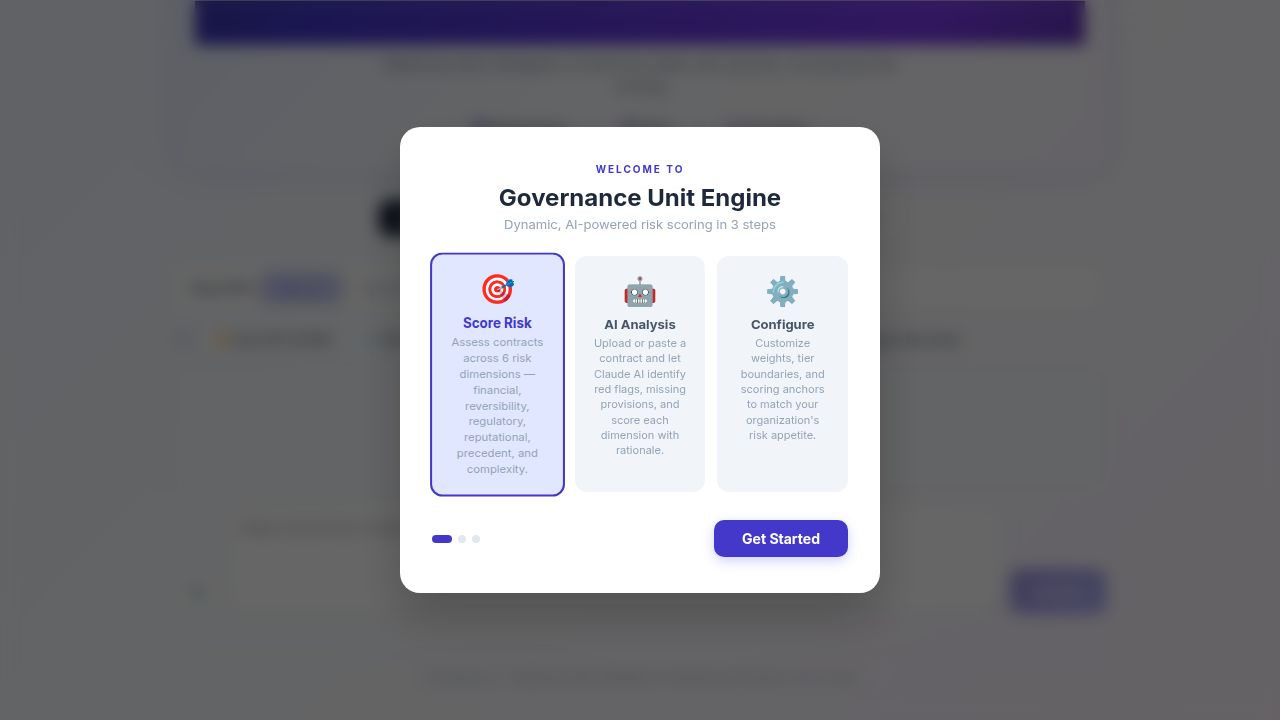
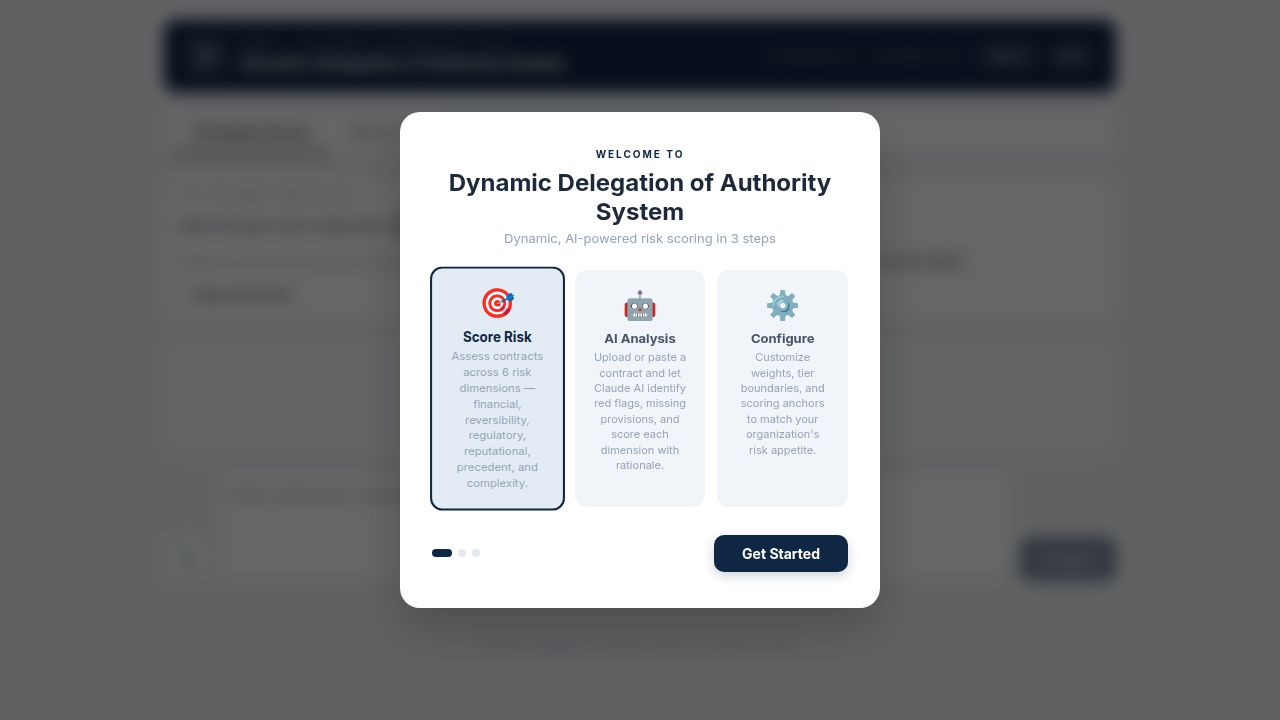
Update PDF export to generate a professional governance document
Refactor `generateReportHTML` and `handleExport` functions to create a polished, print-ready corporate governance document, including headers, summaries, and a clean table layout.

Replit-Commit-Author: Agent
Replit-Commit-Session-Id: 8699d386-e4ce-42f3-b0e2-5c6d118ec8df
Replit-Commit-Checkpoint-Type: full_checkpoint
Replit-Commit-Event-Id: 782a1e3f-37bd-4681-9727-4ac71fe24551
Replit-Commit-Screenshot-Url: https://storage.googleapis.com/screenshot-production-us-central1/102dfe43-65eb-4a89-ae3b-a070b6bf81ec/8699d386-e4ce-42f3-b0e2-5c6d118ec8df/vz2PiLT
Replit-Helium-Checkpoint-Created: true

diff --git a/artifacts/gu-engine/src/components/ContractAnalyzer.jsx b/artifacts/gu-engine/src/components/ContractAnalyzer.jsx
@@ -421,162 +421,254 @@ function buildRadarSVG(scores, size = 260) {
   return `<svg width="${size}" height="${size}" viewBox="0 0 ${size} ${size}" xmlns="http://www.w3.org/2000/svg">${grid}${axes}<path d="${poly}" fill="#0f2644" fill-opacity="0.15" stroke="#0f2644" stroke-width="2.5" stroke-linejoin="round"/>${dots}${lbls}</svg>`;
 }
 
-function generateReportHTML({ result, liveGU, config }) {
+function generateReportHTML({ result, liveGU, config, profile = 'default' }) {
   const a = result.analysis || {};
   const scores = a.scores || {};
   const ca = a.contract_analysis || {};
   const { tier, gu, floorApplied, breakdown = [] } = liveGU.primary;
   const { tiers, anchors } = config;
   const reportId = `GU-${Date.now().toString(36).toUpperCase()}`;
-  const generated = new Date().toLocaleString();
+  const generated = new Date().toLocaleString('en-GB', { day: '2-digit', month: 'short', year: 'numeric', hour: '2-digit', minute: '2-digit' });
+  const dateOnly = new Date().toLocaleDateString('en-GB', { day: 'numeric', month: 'long', year: 'numeric' });
 
-  const scoreBar = (score) => {
-    const h = scoreHue(score);
-    return `<div style="display:flex;align-items:center;gap:8px;margin-top:4px">
-      <div style="flex:1;height:7px;background:#e2e8f0;border-radius:4px;overflow:hidden">
-        <div style="width:${(score / 10) * 100}%;height:100%;background:hsl(${h},70%,50%);border-radius:4px"></div>
-      </div>
-      <span style="font-size:13px;font-weight:800;color:hsl(${h},55%,38%);min-width:24px;text-align:right">${score}</span>
-    </div>`;
+  // ── helpers ──────────────────────────────────────────────────────────────
+
+  const cell = (content, style = '') =>
+    `<td style="padding:9px 12px;border:1px solid #d1d5db;vertical-align:top;${style}">${content}</td>`;
+
+  const hcell = (content, style = '') =>
+    `<th style="padding:7px 12px;border:1px solid #d1d5db;background:#f3f4f6;font-size:10px;font-weight:700;text-transform:uppercase;letter-spacing:0.5px;font-family:Arial,sans-serif;${style}">${content}</th>`;
+
+  const sevLabel = (sev) => {
+    if (sev === 'high')   return `<span style="font-weight:800;color:#b91c1c;font-size:10px;letter-spacing:0.5px">&#9679; HIGH</span>`;
+    if (sev === 'low')    return `<span style="font-weight:800;color:#92400e;font-size:10px;letter-spacing:0.5px">&#9679; LOW</span>`;
+    return `<span style="font-weight:800;color:#c2410c;font-size:10px;letter-spacing:0.5px">&#9679; MEDIUM</span>`;
   };
 
-  const sevColors = (sev) => {
-    if (sev === 'high') return ['#fef2f2', '#fecaca', '#dc2626'];
-    if (sev === 'low')  return ['#fefce8', '#fef08a', '#a16207'];
-    return ['#fff7ed', '#fed7aa', '#ea580c'];
-  };
-
-  const tierBar = tiers.map((t, i) => {
+  // ── section: tier scale bar ───────────────────────────────────────────────
+  const tierBar = tiers.map(t => {
     const active = t.name === tier.name;
-    const r = i === 0 ? '5px 0 0 5px' : i === tiers.length - 1 ? '0 5px 5px 0' : '0';
-    return `<div style="flex:1;padding:4px 2px;text-align:center;background:${active ? tier.color : '#f1f5f9'};border-radius:${r}">
-      <div style="font-size:8px;font-weight:700;color:${active ? '#fff' : '#94a3b8'};white-space:nowrap;overflow:hidden;text-overflow:ellipsis">${escHtml(t.name)}</div>
+    return `<div style="flex:1;padding:5px 3px;text-align:center;background:${active ? '#0f2644' : '#f3f4f6'};border:1px solid ${active ? '#0f2644' : '#d1d5db'}">
+      <div style="font-size:9px;font-weight:${active ? 700 : 500};color:${active ? '#fff' : '#6b7280'};white-space:nowrap;overflow:hidden;text-overflow:ellipsis;font-family:Arial,sans-serif">${escHtml(t.name)}</div>
     </div>`;
   }).join('');
 
-  const dimRows = DIM_ORDER.map(k => {
+  // ── section: dimension score table rows ───────────────────────────────────
+  const dimTableRows = DIM_ORDER.map(k => {
     const v = scores[k]; const m = anchors[k]; if (!v || !m) return '';
     const score = typeof v === 'number' ? v : (v?.score ?? 1);
-    const h = scoreHue(score);
-    const lvl = m.points?.slice().reverse().find(p => p.score <= score)?.label || '';
     const bd = breakdown.find(b => b.dimension === k);
-    return `<div style="padding:12px;margin-bottom:8px;border-radius:8px;background:#f8fafc;border:1px solid #e2e8f0;break-inside:avoid">
-      <div style="display:flex;align-items:center;gap:8px;margin-bottom:6px">
-        <span style="font-size:15px">${m.icon || ''}</span>
-        <span style="font-size:13px;font-weight:700;color:#1e293b;flex:1">${escHtml(m.label)}</span>
-        ${lvl ? `<span style="font-size:10px;font-weight:600;color:#64748b;padding:2px 6px;background:#e2e8f0;border-radius:3px">${escHtml(lvl)}</span>` : ''}
-        ${bd ? `<span style="font-size:12px;font-weight:700;color:hsl(${h},60%,40%)">${bd.weighted.toFixed(1)} GU</span>` : ''}
+    const bar = `<div style="display:flex;align-items:center;gap:6px">
+      <div style="width:72px;height:5px;background:#e5e7eb;display:inline-block">
+        <div style="width:${(score / 10) * 100}%;height:100%;background:#1f2937"></div>
       </div>
-      ${scoreBar(score)}
-      ${v?.rationale ? `<div style="font-size:12px;color:#475569;line-height:1.6;margin-top:6px">${escHtml(v.rationale)}</div>` : ''}
+      <span style="font-weight:800;font-size:14px;font-family:Arial,sans-serif">${score}<span style="font-size:10px;font-weight:400;color:#6b7280">/10</span></span>
+      ${bd ? `<span style="font-size:10px;color:#6b7280">(${bd.weighted.toFixed(1)} GU)</span>` : ''}
     </div>`;
+    return `<tr>
+      ${cell(`<span style="font-weight:600;font-size:13px">${escHtml(m.label)}</span>`, 'width:155px')}
+      ${cell(bar, 'white-space:nowrap;width:165px')}
+      ${cell(v?.rationale ? `<span style="font-size:12px;line-height:1.65;color:#374151">${escHtml(v.rationale)}</span>` : '—')}
+    </tr>`;
   }).join('');
 
-  const flagsHTML = (ca.red_flags || []).map(f => {
-    const [bg, border, badge] = sevColors(f.severity);
-    return `<div style="padding:12px;margin-bottom:6px;border-radius:8px;background:${bg};border:1px solid ${border};break-inside:avoid">
-      <div style="display:flex;align-items:center;gap:6px;margin-bottom:4px">
-        <span style="font-size:10px;font-weight:700;text-transform:uppercase;color:${badge};padding:2px 8px;background:white;border:1px solid ${border};border-radius:4px">${escHtml(f.severity || 'medium')}</span>
-        ${f.clause_reference ? `<span style="font-size:10px;color:#94a3b8">${escHtml(f.clause_reference)}</span>` : ''}
-      </div>
-      <div style="font-size:13px;font-weight:600;color:#1e293b">${escHtml(f.issue)}</div>
-      ${f.recommendation ? `<div style="font-size:12px;color:#059669;font-style:italic;margin-top:3px">${escHtml(f.recommendation)}</div>` : ''}
-    </div>`;
+  // ── section: red flags table rows ─────────────────────────────────────────
+  const flagRows = (ca.red_flags || []).map((f, i) => `<tr style="${i % 2 ? 'background:#f9fafb' : ''}">
+    ${cell(`<div style="font-weight:600;font-size:13px;margin-bottom:3px">${escHtml(f.issue)}</div>${f.clause_reference ? `<div style="font-size:10px;color:#6b7280">${escHtml(f.clause_reference)}</div>` : ''}`)}
+    ${cell(sevLabel(f.severity), 'text-align:center;white-space:nowrap;width:85px')}
+    ${cell(f.recommendation ? `<span style="font-size:12px;line-height:1.6">${escHtml(f.recommendation)}</span>` : '—', 'width:38%')}
+  </tr>`).join('');
+
+  // ── section: missing provisions rows ─────────────────────────────────────
+  const missingRows = (ca.missing_provisions || []).map((mp, i) => `<tr style="${i % 2 ? 'background:#f9fafb' : ''}">
+    ${cell(`<span style="font-weight:600;font-size:13px">${escHtml(mp.provision)}</span>`, 'width:30%')}
+    ${cell(mp.risk ? `<span style="font-size:12px">${escHtml(mp.risk)}</span>` : '—')}
+    ${cell(mp.recommendation ? `<span style="font-size:12px">${escHtml(mp.recommendation)}</span>` : '—', 'width:35%')}
+  </tr>`).join('');
+
+  // ── section: positive features rows ──────────────────────────────────────
+  const posRows = (ca.positive_features || []).map((pf, i) => `<tr style="${i % 2 ? 'background:#f9fafb' : ''}">
+    ${cell(`<span style="font-weight:600;font-size:13px">${escHtml(pf.feature)}</span>`, 'width:38%')}
+    ${cell(pf.benefit ? `<span style="font-size:12px">${escHtml(pf.benefit)}</span>` : '—')}
+  </tr>`).join('');
+
+  // ── section: cross-profile comparison rows ────────────────────────────────
+  const profileRows = Object.entries(liveGU.allProfiles || {}).map(([n, d], i) => {
+    const t = tiers.find(t2 => d.gu <= t2.maxGU) || tiers[tiers.length - 1];
+    const isActive = n === profile;
+    const prof = config.profiles[n];
+    return `<tr style="${i % 2 ? 'background:#f9fafb' : ''}${isActive ? ';font-weight:700' : ''}">
+      ${cell(`${escHtml(prof?.label || n)}${isActive ? ' <span style="font-size:10px;color:#0f2644">(active)</span>' : ''}`, 'font-size:13px')}
+      ${cell(`<span style="font-weight:800;font-size:15px;font-family:Arial,sans-serif">${d.gu}</span>`, 'text-align:center;width:70px')}
+      ${cell(escHtml(t.name), 'width:115px')}
+      ${cell(escHtml(t.approver))}
+      ${cell(escHtml(t.sla), 'width:120px')}
+    </tr>`;
   }).join('');
 
-  const missingHTML = (ca.missing_provisions || []).map(mp =>
-    `<div style="padding:12px;margin-bottom:6px;border-radius:8px;background:#fffbeb;border:1px solid #fde68a;break-inside:avoid">
-      <div style="font-size:13px;font-weight:600;color:#92400e">${escHtml(mp.provision)}</div>
-      ${mp.risk ? `<div style="font-size:12px;color:#a16207;margin-top:2px">${escHtml(mp.risk)}</div>` : ''}
-      ${mp.recommendation ? `<div style="font-size:12px;color:#059669;font-style:italic;margin-top:2px">${escHtml(mp.recommendation)}</div>` : ''}
-    </div>`).join('');
+  // ── section: assumptions rows ─────────────────────────────────────────────
+  const assumptions = ca.assumptions || [];
+  const assumptionRows = assumptions.map((as, i) => `<tr style="${i % 2 ? 'background:#f9fafb' : ''}">
+    ${cell(`<span style="font-size:12px">${escHtml(as.assumption)}</span>`, 'width:45%')}
+    ${cell(`<span style="font-size:12px">${escHtml(as.impact || '—')}</span>`)}
+  </tr>`).join('');
 
-  const posHTML = (ca.positive_features || []).map(pf =>
-    `<div style="padding:10px;margin-bottom:6px;border-radius:8px;background:#ecfdf5;border:1px solid #a7f3d0;break-inside:avoid">
-      <div style="font-size:13px;font-weight:600;color:#065f46">${escHtml(pf.feature)}</div>
-      ${pf.benefit ? `<div style="font-size:12px;color:#047857;margin-top:2px">${escHtml(pf.benefit)}</div>` : ''}
-    </div>`).join('');
+  // ── section heading helper ────────────────────────────────────────────────
+  const sh = (label) => `<div style="font-family:Arial,sans-serif;font-size:10px;font-weight:700;text-transform:uppercase;letter-spacing:1.5px;color:#374151;border-bottom:1.5px solid #111827;padding-bottom:4px;margin:28px 0 13px">${label}</div>`;
 
-  const recsHTML = (a.key_recommendations || []).map(r =>
-    `<div style="display:flex;gap:8px;padding:8px 0;border-bottom:1px solid #e2e8f0">
-      <span style="color:#0f2644;font-weight:700;font-size:16px;line-height:1.4">›</span>
-      <span style="font-size:13px;color:#1e293b;line-height:1.6">${escHtml(r)}</span>
-    </div>`).join('');
-
-  const narrativeHTML = a.overall_risk_narrative
-    ? `<div style="padding:14px;background:#eff6ff;border-radius:8px;border:1px solid #bfdbfe;font-size:13px;color:#1e40af;line-height:1.7;margin-bottom:24px">${escHtml(a.overall_risk_narrative)}</div>`
-    : '';
-
+  // ─────────────────────────────────────────────────────────────────────────
   return `<!DOCTYPE html>
 <html lang="en"><head>
 <meta charset="UTF-8">
-<meta name="viewport" content="width=device-width,initial-scale=1">
-<title>GU Report — ${escHtml(a.transaction_summary || reportId)}</title>
+<title>DDAS Governance Memo — ${escHtml(a.transaction_summary || reportId)}</title>
 <style>
 *,*::before,*::after{box-sizing:border-box;margin:0;padding:0}
-body{font-family:system-ui,-apple-system,'Segoe UI',sans-serif;background:#fff;color:#1e293b;font-size:14px;line-height:1.6;padding:32px 40px;max-width:860px;margin:0 auto;-webkit-print-color-adjust:exact;print-color-adjust:exact}
-h2{font-size:16px;font-weight:700;color:#1e293b;margin-bottom:12px}
-section{margin-bottom:28px}
-@media print{body{padding:20px 24px} section{break-inside:avoid} @page{margin:1.5cm}}
+body{font-family:Georgia,'Times New Roman',serif;font-size:13px;line-height:1.55;color:#111827;background:#fff;max-width:820px;margin:0 auto;padding:40px 48px;-webkit-print-color-adjust:exact;print-color-adjust:exact}
+table{width:100%;border-collapse:collapse;margin-bottom:6px}
+th,td{padding:9px 12px;border:1px solid #d1d5db;vertical-align:top}
+th{background:#f3f4f6;font-weight:700;font-size:10px;text-transform:uppercase;letter-spacing:.5px;font-family:Arial,sans-serif}
+@media print{body{padding:0} @page{margin:1.8cm 1.5cm;size:A4}}
 </style>
 </head><body>
 
-<div style="display:flex;justify-content:space-between;align-items:flex-start;padding-bottom:16px;border-bottom:2px solid #1e293b;margin-bottom:24px">
-  <div>
-    <div style="font-size:18px;font-weight:800;color:#1e293b">Dynamic Delegation of Authority System</div>
-    <div style="font-size:11px;color:#64748b;margin-top:2px">DDAS — Governance Assessment Report</div>
-  </div>
-  <div style="text-align:right;font-size:11px;color:#64748b">
-    <div>Generated: ${escHtml(generated)}</div>
-    <div>Report ID: ${reportId}</div>
-  </div>
-</div>
-
-<section style="background:${tier.bg};border-radius:12px;padding:20px 24px;border:2px solid ${tier.border}">
-  <div style="display:flex;justify-content:space-between;align-items:flex-start;flex-wrap:wrap;gap:12px">
+<!-- DOCUMENT HEADER -->
+<div style="border-top:5px solid #0f2644;padding-top:16px;margin-bottom:22px">
+  <div style="display:flex;justify-content:space-between;align-items:flex-start">
     <div>
-      <div style="font-size:10px;font-weight:700;color:#64748b;text-transform:uppercase;letter-spacing:1.5px">Governance Cost</div>
-      <div style="font-size:52px;font-weight:800;color:${tier.color};line-height:1.1">${gu}<span style="font-size:22px;font-weight:600"> GU</span></div>
+      <div style="font-family:Arial,sans-serif;font-size:9px;font-weight:700;letter-spacing:2.5px;text-transform:uppercase;color:#6b7280;margin-bottom:5px">Dynamic Delegation of Authority System</div>
+      <div style="font-family:Arial,sans-serif;font-size:21px;font-weight:800;color:#0f2644;letter-spacing:.3px">Governance Assessment Memo</div>
     </div>
-    <div style="text-align:right">
-      <div style="font-size:10px;font-weight:700;color:#64748b;text-transform:uppercase;letter-spacing:1.5px">Required Tier</div>
-      <div style="font-size:28px;font-weight:800;color:${tier.color}">${escHtml(tier.name)}</div>
-      <div style="font-size:12px;color:#64748b;margin-top:2px">${escHtml(tier.approver)}</div>
-      <div style="font-size:11px;color:#94a3b8">SLA: ${escHtml(tier.sla)}</div>
-      ${floorApplied ? `<div style="margin-top:6px;font-size:10px;font-weight:700;color:#dc2626;padding:2px 8px;background:#fef2f2;border-radius:4px;display:inline-block">Floor rule: ${escHtml(floorApplied)}</div>` : ''}
+    <div style="text-align:right;font-family:Arial,sans-serif;font-size:10px;color:#6b7280;line-height:1.8">
+      <div style="font-weight:700;font-size:9px;letter-spacing:1px;text-transform:uppercase;color:#b91c1c;margin-bottom:4px">Confidential — Internal Use Only</div>
+      <div>Document Ref: <strong style="color:#111827;font-family:monospace;font-size:11px">${reportId}</strong></div>
+      <div>Date: <strong style="color:#111827">${dateOnly}</strong></div>
+      <div>Generated: ${generated}</div>
     </div>
   </div>
-  <div style="display:flex;margin-top:16px;gap:2px">${tierBar}</div>
-  ${a.transaction_summary ? `<div style="margin-top:14px;padding:12px;background:#fff;border-radius:8px;border:1px solid #e2e8f0">
-    <div style="font-size:14px;font-weight:600;color:#1e293b">${escHtml(a.transaction_summary)}</div>
-    ${a.transaction_type ? `<span style="display:inline-block;margin-top:6px;padding:2px 8px;background:#f1f5f9;border-radius:4px;font-size:11px;font-weight:600;color:#475569">${escHtml(a.transaction_type)}</span>` : ''}
-  </div>` : ''}
-</section>
-
-${narrativeHTML}
-
-<section style="text-align:center">
-  <h2 style="text-align:center">Risk Profile</h2>
-  <div style="display:inline-block;padding:12px;background:#f8fafc;border-radius:12px;border:1px solid #e2e8f0">${buildRadarSVG(scores)}</div>
-</section>
-
-<section>
-  <h2>Risk Dimension Scores</h2>
-  ${dimRows || '<p style="color:#94a3b8;font-size:13px">No scores available.</p>'}
-</section>
-
-${(ca.red_flags || []).length > 0 ? `<section><h2 style="color:#dc2626">Red Flags (${ca.red_flags.length})</h2>${flagsHTML}</section>` : ''}
-
-${(ca.missing_provisions || []).length > 0 ? `<section><h2 style="color:#d97706">&#9888; Missing Provisions (${ca.missing_provisions.length})</h2>${missingHTML}</section>` : ''}
-
-${(ca.positive_features || []).length > 0 ? `<section><h2 style="color:#059669">&#10003; Positive Features</h2>${posHTML}</section>` : ''}
-
-${(a.key_recommendations || []).length > 0 ? `<section><h2 style="color:#0f2644">Key Recommendations</h2>${recsHTML}</section>` : ''}
-
-<div style="margin-top:32px;padding-top:12px;border-top:1px solid #e2e8f0;text-align:center;font-size:10px;color:#94a3b8">
-  DDAS &mdash; ${reportId} &mdash; Confidential &amp; Privileged &mdash; Not for external distribution
+  <div style="border-top:1px solid #d1d5db;margin-top:14px"></div>
 </div>
-<script>window.onload=function(){setTimeout(function(){window.print();},600);};</script>
+
+<!-- TRANSACTION DETAILS -->
+${a.transaction_summary ? `${sh('Transaction Details')}
+<table>
+  <tbody>
+    <tr><th style="width:165px">Transaction</th><td style="font-size:14px;font-weight:600;color:#0f2644;font-family:Arial,sans-serif">${escHtml(a.transaction_summary)}</td></tr>
+    ${a.transaction_type ? `<tr><th>Contract Type</th><td>${escHtml(a.transaction_type)}</td></tr>` : ''}
+    <tr><th>Assessment Date</th><td>${dateOnly}</td></tr>
+    <tr><th>Assessment Method</th><td>AI-Assisted Contract Risk Assessment (DDAS)</td></tr>
+  </tbody>
+</table>` : ''}
+
+<!-- ASSESSMENT OUTCOME -->
+${sh('Assessment Outcome')}
+<div style="border:2px solid #0f2644">
+  <div style="display:flex;border-bottom:1px solid #d1d5db">
+    <div style="flex:1;padding:16px 20px;border-right:1px solid #d1d5db">
+      <div style="font-family:Arial,sans-serif;font-size:9px;font-weight:700;text-transform:uppercase;letter-spacing:1.5px;color:#6b7280;margin-bottom:5px">Governance Units (GU Score)</div>
+      <div style="font-family:Arial,sans-serif;font-size:52px;font-weight:800;color:#0f2644;line-height:1">${gu}</div>
+      <div style="font-family:Arial,sans-serif;font-size:11px;color:#6b7280;margin-top:3px">out of 100 Governance Units</div>
+      ${floorApplied ? `<div style="margin-top:10px;font-family:Arial,sans-serif;font-size:10px;font-weight:700;color:#b91c1c">&#9888; Floor rule applied: ${escHtml(floorApplied)}</div>` : ''}
+    </div>
+    <div style="flex:2;padding:16px 20px">
+      <table style="margin-bottom:0">
+        <tbody>
+          <tr>
+            <th style="background:none;border:none;border-bottom:1px solid #e5e7eb;padding:5px 0;width:160px;font-size:10px">Required Approval Tier</th>
+            <td style="border:none;border-bottom:1px solid #e5e7eb;padding:5px 0;font-size:17px;font-weight:800;color:#0f2644;font-family:Arial,sans-serif">${escHtml(tier.name)}</td>
+          </tr>
+          <tr>
+            <th style="background:none;border:none;border-bottom:1px solid #e5e7eb;padding:5px 0;font-size:10px">Approving Authority</th>
+            <td style="border:none;border-bottom:1px solid #e5e7eb;padding:5px 0">${escHtml(tier.approver)}</td>
+          </tr>
+          <tr>
+            <th style="background:none;border:none;border-bottom:1px solid #e5e7eb;padding:5px 0;font-size:10px">Required Signatures</th>
+            <td style="border:none;border-bottom:1px solid #e5e7eb;padding:5px 0">${escHtml(tier.signatures || '—')}</td>
+          </tr>
+          <tr>
+            <th style="background:none;border:none;padding:5px 0;font-size:10px">Estimated SLA</th>
+            <td style="border:none;padding:5px 0">${escHtml(tier.sla)}</td>
+          </tr>
+        </tbody>
+      </table>
+    </div>
+  </div>
+  <div style="padding:10px 14px;background:#f3f4f6">
+    <div style="font-family:Arial,sans-serif;font-size:9px;font-weight:700;text-transform:uppercase;letter-spacing:1px;color:#6b7280;margin-bottom:5px">Approval Tier Scale</div>
+    <div style="display:flex;gap:0">${tierBar}</div>
+  </div>
+</div>
+
+<!-- RISK ASSESSMENT SUMMARY -->
+${a.overall_risk_narrative ? `${sh('Risk Assessment Summary')}
+<div style="padding:14px 16px;border-left:4px solid #0f2644;background:#f9fafb;font-size:13px;line-height:1.8;color:#1f2937">${escHtml(a.overall_risk_narrative)}</div>` : ''}
+
+<!-- RISK DIMENSION ANALYSIS -->
+${sh('Risk Dimension Analysis')}
+<table>
+  <thead><tr>${hcell('Dimension', 'width:155px')}${hcell('Score', 'width:165px')}${hcell('AI Rationale')}</tr></thead>
+  <tbody>${dimTableRows || `<tr><td colspan="3" style="color:#6b7280;font-style:italic;padding:12px">No dimension scores available.</td></tr>`}</tbody>
+</table>
+
+<!-- RADAR CHART -->
+<div style="text-align:center;margin:24px 0;padding:20px 20px 14px;border:1px solid #e5e7eb;background:#fafafa">
+  <div style="font-family:Arial,sans-serif;font-size:9px;font-weight:700;text-transform:uppercase;letter-spacing:1.5px;color:#6b7280;margin-bottom:10px">Risk Profile — Radar View</div>
+  ${buildRadarSVG(scores, 240)}
+</div>
+
+<!-- RED FLAGS -->
+${(ca.red_flags || []).length > 0 ? `${sh(`Red Flags (${ca.red_flags.length})`)}
+<table>
+  <thead><tr>${hcell('Issue')}${hcell('Severity', 'width:85px;text-align:center')}${hcell('Recommendation', 'width:38%')}</tr></thead>
+  <tbody>${flagRows}</tbody>
+</table>` : ''}
+
+<!-- MISSING PROVISIONS -->
+${(ca.missing_provisions || []).length > 0 ? `${sh(`Missing Provisions (${ca.missing_provisions.length})`)}
+<table>
+  <thead><tr>${hcell('Provision', 'width:30%')}${hcell('Risk')}${hcell('Recommendation', 'width:35%')}</tr></thead>
+  <tbody>${missingRows}</tbody>
+</table>` : ''}
+
+<!-- POSITIVE FEATURES -->
+${(ca.positive_features || []).length > 0 ? `${sh('Positive Features')}
+<table>
+  <thead><tr>${hcell('Feature', 'width:38%')}${hcell('Benefit')}</tr></thead>
+  <tbody>${posRows}</tbody>
+</table>` : ''}
+
+<!-- SCORING ASSUMPTIONS -->
+${assumptions.length > 0 ? `${sh('Scoring Assumptions')}
+<table>
+  <thead><tr>${hcell('Assumption', 'width:45%')}${hcell('Impact on Score')}</tr></thead>
+  <tbody>${assumptionRows}</tbody>
+</table>` : ''}
+
+<!-- KEY RECOMMENDATIONS -->
+${(a.key_recommendations || []).length > 0 ? `${sh('Key Recommendations')}
+<ol style="padding-left:20px;margin-bottom:4px">
+  ${(a.key_recommendations || []).map(r => `<li style="margin-bottom:7px;font-size:13px;line-height:1.65">${escHtml(r)}</li>`).join('')}
+</ol>` : ''}
+
+<!-- CROSS-PROFILE COMPARISON -->
+${Object.keys(liveGU.allProfiles || {}).length > 1 ? `${sh('Cross-Profile Comparison')}
+<p style="font-size:12px;color:#6b7280;margin-bottom:9px">Same transaction scored under different organizational risk appetite profiles.</p>
+<table>
+  <thead><tr>${hcell('Organization Profile')}${hcell('GU Score', 'width:70px;text-align:center')}${hcell('Approval Tier', 'width:115px')}${hcell('Required Approver')}${hcell('SLA', 'width:120px')}</tr></thead>
+  <tbody>${profileRows}</tbody>
+</table>` : ''}
+
+<!-- DOCUMENT FOOTER -->
+<div style="margin-top:40px;padding-top:12px;border-top:2px solid #0f2644;display:flex;justify-content:space-between;align-items:flex-end;font-family:Arial,sans-serif;font-size:9px;color:#6b7280">
+  <div>
+    <div style="font-weight:700;color:#0f2644;margin-bottom:2px">Dynamic Delegation of Authority System (DDAS)</div>
+    <div>This document is generated by an AI-assisted governance tool. Results should be reviewed by qualified legal and risk professionals before action is taken.</div>
+  </div>
+  <div style="text-align:right;white-space:nowrap;margin-left:20px">
+    <div style="font-weight:700;font-family:monospace;font-size:10px;color:#374151">${reportId}</div>
+    <div>Confidential &amp; Privileged</div>
+  </div>
+</div>
+<script>window.onload=function(){setTimeout(function(){window.print();},650);};</script>
 </body></html>`;
 }
 
@@ -765,7 +857,7 @@ export default function ContractAnalyzer({ config, restoredResult, onResultClear
 
   const handleExport = useCallback(() => {
     if (!result || !liveGU) return;
-    const html = generateReportHTML({ result, liveGU, config });
+    const html = generateReportHTML({ result, liveGU, config, profile });
     const win = window.open('', '_blank');
     if (!win) {
       alert('Pop-ups are blocked. Please allow pop-ups for this page to download the PDF report.');
@@ -776,7 +868,7 @@ export default function ContractAnalyzer({ config, restoredResult, onResultClear
     setTimeout(() => {
       try { win.document.defaultView.print(); } catch (_) { /* inline script fallback */ }
     }, 650);
-  }, [result, liveGU, config]);
+  }, [result, liveGU, config, profile]);
 
   const onKey = (e) => { if (e.key === 'Enter' && !e.shiftKey) { e.preventDefault(); send(); } };
   const active = chat.length > 0;